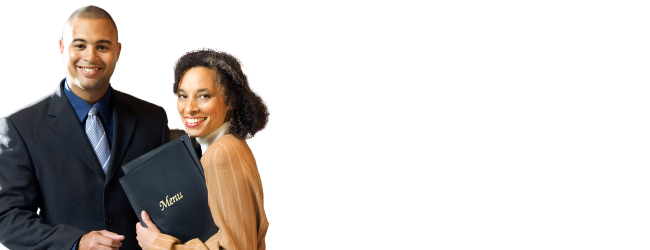
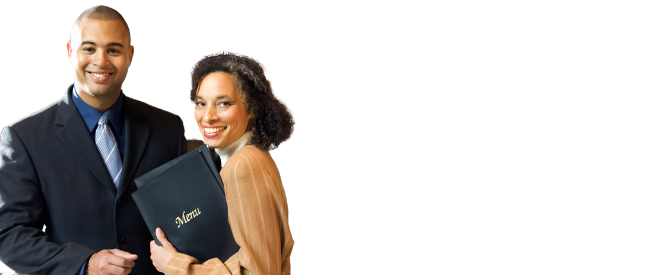
adding HomeHeader.jsx

Changed region(s): [[0.0, 0.0, 0.4615, 1.0]]

diff --git a/src/components/HomeHeader.jsx b/src/components/HomeHeader.jsx
@@ -1,0 +1,34 @@
+import { Link } from "react-router-dom";
+import { Row, Col, Button } from "react-bootstrap";
+
+export const HomeHeader = () => {
+  return (
+    <Row className="p-2">
+      <Row>
+        <Col md={4} className="text-center">
+          <h5>
+            <strong>
+              <i>START YOUR ORDER</i>
+            </strong>
+          </h5>
+        </Col>
+        <Col>
+          <Button variant="dark" size="sm">
+            {" "}
+            <strong>
+              <i>PICK UP</i>
+            </strong>
+          </Button>
+        </Col>
+        <Col>
+          <Button variant="dark" size="sm">
+            {" "}
+            <strong>
+              <i>DELIVERY</i>
+            </strong>
+          </Button>
+        </Col>
+      </Row>
+    </Row>
+  );
+};

diff --git a/src/components/Footer.jsx b/src/components/Footer.jsx
@@ -1,0 +1,18 @@
+import Container from "react-bootstrap/Container";
+import Nav from "react-bootstrap/Nav";
+import Navbar from "react-bootstrap/Navbar";
+
+export const Footer = () => {
+  return (
+    <Navbar className="fixed-bottom">
+      <Container>
+        <Navbar.Brand href="#home">DEVELOPED BY LUISPAZDEV</Navbar.Brand>
+        <Nav className="me-end">
+          <Nav.Link href="#home">Home</Nav.Link>
+          <Nav.Link href="#features">Features</Nav.Link>
+          <Nav.Link href="#pricing">Pricing</Nav.Link>
+        </Nav>
+      </Container>
+    </Navbar>
+  );
+};

diff --git a/src/components/Home.jsx b/src/components/Home.jsx
@@ -1,3 +1,4 @@
+import { HomeHeader } from "./HomeHeader";
 import { HomeMainCard } from "./HomeMainCard";
 import { HomeSecondary } from "./HomeSecondary";
 import { HomeBanner } from "./HomeBanner";
@@ -5,6 +6,7 @@ import { HomeBanner } from "./HomeBanner";
 export const Home = () => {
   return (
     <>
+      <HomeHeader />
       <HomeMainCard />
       <HomeSecondary />
       <HomeBanner />

diff --git a/src/components/NavBar.jsx b/src/components/NavBar.jsx
@@ -13,7 +13,7 @@ export const NavBar = () => {
   return (
     <>
       {["md"].map((expand) => (
-        <Navbar key={expand} expand={expand} className="sticky-top bg-light">
+        <Navbar key={expand} expand={expand} className="sticky-top bg-light ">
           <Container fluid>
             <Navbar.Brand href="#">
               <img src={logo} alt="logo" />

diff --git a/src/components/Layout.jsx b/src/components/Layout.jsx
@@ -1,12 +1,14 @@
 import { Outlet } from "react-router-dom";
 import { NavBar } from "./NavBar";
 import { Container } from "react-bootstrap";
+import { Footer } from "./Footer";
 
 export const Layout = () => {
   return (
     <Container fluid>
       <NavBar />
       <Outlet />
+      <Footer />
     </Container>
   );
 };
